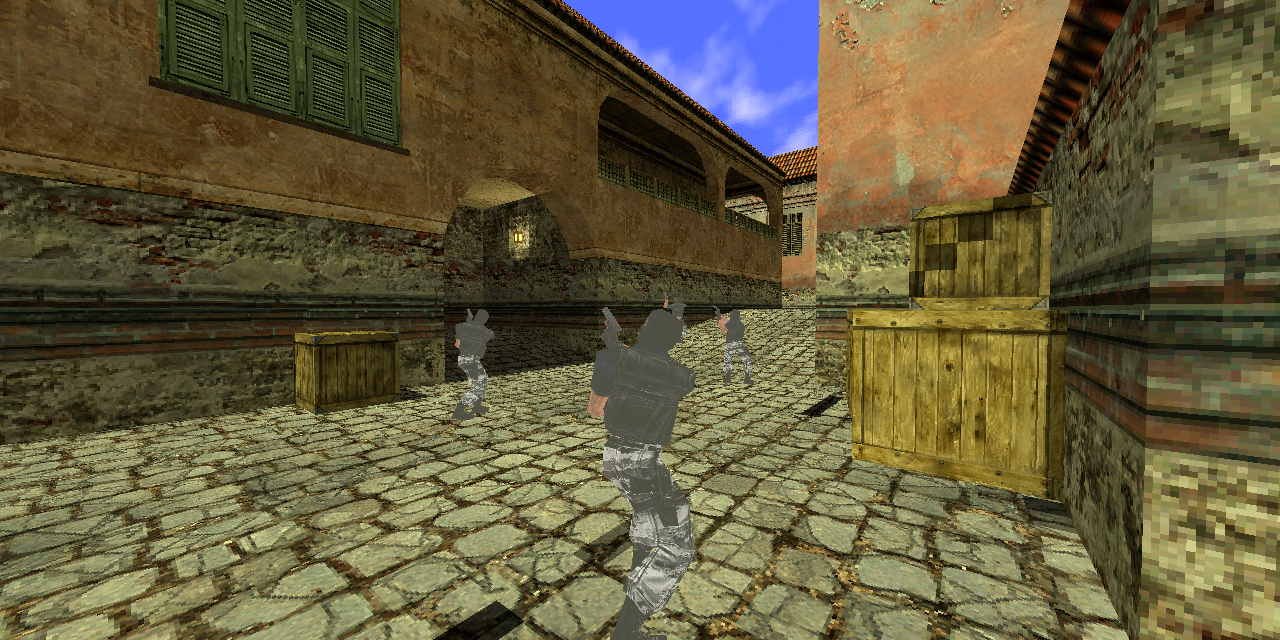
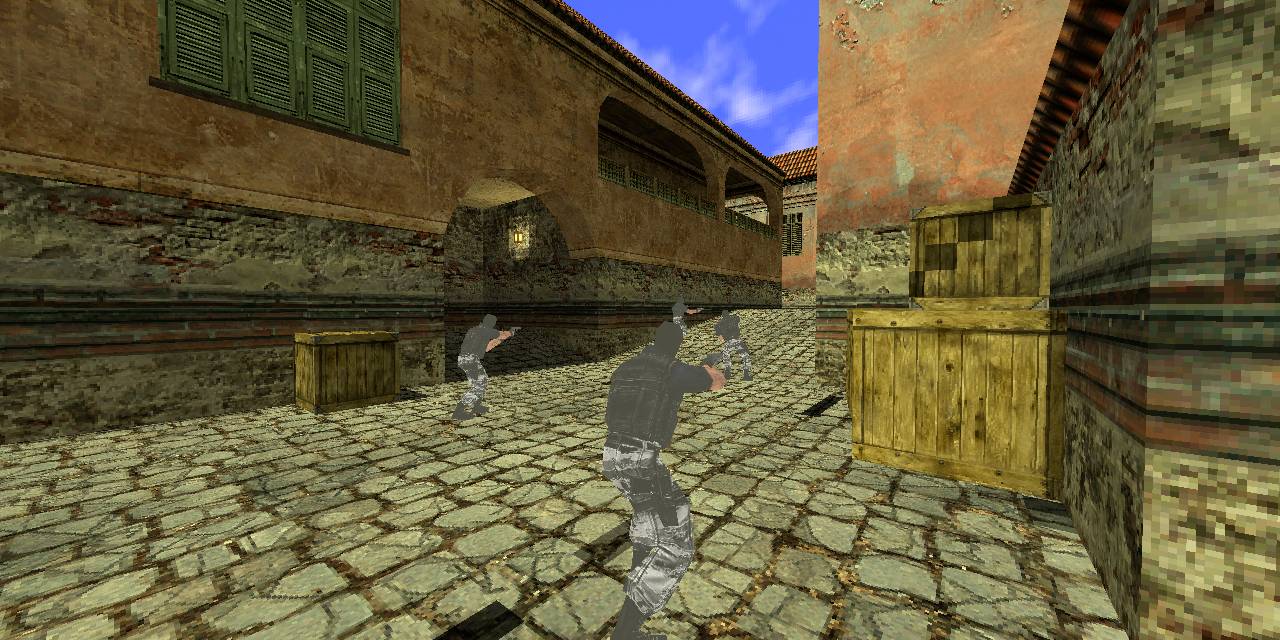
Aim the torso where the player was looking
Every player's aim sequence carries nine blends — `terror.mdl` has
sixteen of them, `ref_aim_rifle`, `ref_aim_ak47` and the rest, each with
`blendCount` 9 — and the blend axis is the pitch they are looking
through. The skeleton read blend 0 and nothing else, so every torso in
every frame was posed at one end of that axis. Rendering the same frame
at each end shows what that means: blend 0 is aiming straight up, hunched
and twisted away from the legs, which is exactly the figure in the
report. Blend 0.5 stands upright with the weapon level.

The animation lump holds `blendCount * boneCount` channel sets,
blend-major, so a bone's data for blend b starts at
`animOffset + (b * boneCount + i) * 12`. The skeleton now brackets the
requested position and interpolates, on top of the existing interpolation
between keyframes.

`blending[0]` was already being recorded and never used. Measured across
the demo it is centred on 128 of 255 — half of all samples sit within 32
of it — and it rises when a player looks down: mean 139 for pitches past
25 degrees down against 122 for the same past 25 up. That pins which end
of the axis is which and matches the renders. Sequences with one blend,
which is all the locomotion, are unaffected.

Two smaller things from the same screenshot. A player whose `modelindex`
has not arrived yet — anyone still unassigned at a round start — was
drawn as a coloured capsule; they now fall back to the model named in
[…]

Changed region(s): [[0.4375, 0.4688, 0.5938, 0.6562], [0.3438, 0.4688, 0.4062, 0.5625], [0.4688, 0.6875, 0.5312, 0.7188]]

diff --git a/src/mdl/model.ts b/src/mdl/model.ts
@@ -1,5 +1,13 @@
 import * as THREE from 'three'
-import { parseMdl, readAnimChannel, STUDIO_NF_ADDITIVE, STUDIO_NF_CHROME, STUDIO_NF_MASKED, type Mdl } from './parser.ts'
+import {
+  parseMdl,
+  readAnimChannel,
+  STUDIO_NF_ADDITIVE,
+  STUDIO_NF_CHROME,
+  STUDIO_NF_MASKED,
+  type Mdl,
+  type MdlSequence
+} from './parser.ts'
 
 /**
  * Turns a parsed studio model into a Three.js `SkinnedMesh` and evaluates its
@@ -254,8 +262,11 @@ export class StudioInstance {
    * @param frame         frame within that sequence
    * @param gaitSequence  lower-body sequence index (idle, walk, run)
    * @param gaitFrame     frame within the gait sequence
+   * @param blend         0..1 along the sequence's blend axis; for a player's
+   *                      aim sequences this is where they are looking, from
+   *                      fully down to fully up
    */
-  applyPose(sequence: number, frame: number, gaitSequence: number, gaitFrame: number): void {
+  applyPose(sequence: number, frame: number, gaitSequence: number, gaitFrame: number, blend = 0.5): void {
     const { mdl } = this.data
     const upper = mdl.sequences[sequence] ?? mdl.sequences[0]
     const lower = mdl.sequences[gaitSequence] ?? upper
@@ -264,7 +275,8 @@ export class StudioInstance {
       const useGait = !this.isTorso[i] && lower !== undefined && gaitSequence > 0
       const active = useGait ? lower : upper
       const activeFrame = useGait ? gaitFrame : frame
-      this.poseBone(i, active, activeFrame)
+      // Locomotion has one blend; only the aim sequences span an axis.
+      this.poseBone(i, active, activeFrame, useGait ? 0.5 : blend)
     }
   }
 
@@ -292,35 +304,65 @@ export class StudioInstance {
         this.bones[i].position.copy(shared.position)
         this.bones[i].quaternion.copy(shared.quaternion)
       } else {
-        this.poseBone(i, idle, 0)
+        this.poseBone(i, idle, 0, 0.5)
       }
     }
   }
 
-  private poseBone(boneIndex: number, sequence: { animOffset: number; frameCount: number } | undefined, frame: number): void {
+  private poseBone(
+    boneIndex: number,
+    sequence: MdlSequence | undefined,
+    frame: number,
+    blend: number
+  ): void {
     const bone = this.data.mdl.bones[boneIndex]
     const target = this.bones[boneIndex]
+    const bytes = this.data.mdl.bytes
+    const boneCount = this.data.mdl.bones.length
 
-    const values = [0, 0, 0, 0, 0, 0]
     // Studio clips run at 30-ish fps but the demo is played back at whatever
     // the display refreshes at, so land between keyframes and blend them.
     // Sampling only the floor makes every animation step visibly.
     const last = sequence ? sequence.frameCount - 1 : 0
     const whole = Math.min(Math.max(Math.floor(frame), 0), last)
     const nextWhole = Math.min(whole + 1, last)
-    const blend = Math.min(Math.max(frame - whole, 0), 1)
+    const frameBlend = Math.min(Math.max(frame - whole, 0), 1)
 
+    // Where along the blend axis this pose sits, and the two animations that
+    // bracket it. A player's aim sequences carry nine blends spanning the
+    // pitch they can look through, so reading only the first — as this used to
+    // — poses every torso at one extreme of that range no matter where they
+    // were actually aiming.
+    const blendCount = sequence ? Math.max(sequence.blendCount, 1) : 1
+    const axis = Math.min(Math.max(blend, 0), 1) * (blendCount - 1)
+    const lowBlend = Math.floor(axis)
+    const highBlend = Math.min(lowBlend + 1, blendCount - 1)
+    const axisBlend = axis - lowBlend
+
+    const channelAt = (animBase: number, channel: number): number | null => {
+      const a = readAnimChannel(bytes, animBase, boneIndex, channel, whole)
+      if (a === null) return null
+      if (nextWhole === whole) return a
+      const b = readAnimChannel(bytes, animBase, boneIndex, channel, nextWhole) ?? a
+      return a + (b - a) * frameBlend
+    }
+
+    const values = [0, 0, 0, 0, 0, 0]
     for (let channel = 0; channel < 6; channel++) {
       let value = bone.value[channel]
       if (sequence && sequence.frameCount > 0) {
-        const a = readAnimChannel(this.data.mdl.bytes, sequence.animOffset, boneIndex, channel, whole)
-        if (a !== null) {
-          const b = nextWhole === whole
-            ? a
-            : readAnimChannel(this.data.mdl.bytes, sequence.animOffset, boneIndex, channel, nextWhole) ?? a
-          // Rotations are stored as raw Euler steps; over one frame they never
-          // approach a wrap, so a plain lerp is safe and much cheaper than slerp.
-          value += (a + (b - a) * blend) * bone.scale[channel]
+        const lowBase = sequence.animOffset + lowBlend * boneCount * 12
+        const low = channelAt(lowBase, channel)
+        if (low !== null) {
+          let amount = low
+          if (highBlend !== lowBlend) {
+            const highBase = sequence.animOffset + highBlend * boneCount * 12
+            const high = channelAt(highBase, channel) ?? low
+            // Rotations are stored as raw Euler steps; across one blend step
+            // they never approach a wrap, so a plain lerp is safe.
+            amount = low + (high - low) * axisBlend
+          }
+          value += amount * bone.scale[channel]
         }
       }
       values[channel] = value

diff --git a/src/render/players.ts b/src/render/players.ts
@@ -3,6 +3,7 @@ import { buildStudioModel, StudioInstance, type StudioModelData } from '../mdl/m
 import {
   PLAYER_STRIDE,
   P_FRAME,
+  P_BLEND,
   P_GAIT,
   P_MODEL,
   P_PITCH,
@@ -58,6 +59,8 @@ export interface PlayerPose {
   sequence: number
   frame: number
   gaitSequence: number
+  /** Position along the aim sequence's blend axis, 0..1. */
+  blend: number
   modelIndex: number
   weaponModelIndex: number
 }
@@ -126,6 +129,14 @@ export function samplePlayer(player: ReplayPlayer, time: number, out: PlayerPose
     ? lerpWrapped(track.data[base + P_FRAME], hasNext ? track.data[next + P_FRAME] : track.data[base + P_FRAME], alpha, 256)
     : track.data[base + P_FRAME]
   out.gaitSequence = track.data[base + P_GAIT]
+  // `blending[0]` is where the player is looking along the aim sequence's
+  // pitch axis, 0..255 on the wire.
+  out.blend = lerpWrapped(
+    track.data[base + P_BLEND],
+    hasNext ? track.data[next + P_BLEND] : track.data[base + P_BLEND],
+    alpha,
+    256
+  ) / 255
   out.modelIndex = track.data[base + P_MODEL]
   out.weaponModelIndex = track.data[base + P_WEAPON_MODEL]
   out.present = true
@@ -153,6 +164,7 @@ export function createPose(): PlayerPose {
     sequence: 0,
     frame: 0,
     gaitSequence: 0,
+    blend: 0.5,
     modelIndex: 0,
     weaponModelIndex: 0
   }
@@ -220,14 +232,29 @@ export class PlayerActor {
     this.label.position.set(0, TAG_HEIGHT, 0)
     this.root.add(this.label)
 
-    // Shown until the real model arrives, and if it never does.
+    // Shown until a model arrives, and if none ever does. Centred on the
+    // origin, not raised: a player's origin is the middle of their hull, and
+    // the studio model straddles it too — measured at -36.8..26.4 in its own
+    // frame. Sitting it 36 higher left a capsule floating a body above the
+    // ground.
     this.fallback = new THREE.Mesh(
-      new THREE.CapsuleGeometry(16, 40, 4, 8),
+      new THREE.CapsuleGeometry(14, 34, 4, 8),
       new THREE.MeshLambertMaterial({ color: TEAM_COLORS[player.team] ?? TEAM_COLORS[0] })
     )
-    this.fallback.position.y = 36
     this.root.add(this.fallback)
     this.root.visible = false
+  }
+
+  /**
+   * The model named in the player's connect-time userinfo.
+   *
+   * Used when the entity's `modelindex` has not arrived yet, which happens for
+   * anyone still unassigned at the start of a round. Without it they spend
+   * that time as a coloured capsule.
+   */
+  private userinfoModel(): string | null {
+    const name = this.player.model
+    return name ? `models/player/${name}/${name}.mdl` : null
   }
 
   /** Team at `time`, preferring the model actually worn in that frame. */
@@ -259,7 +286,7 @@ export class PlayerActor {
     // and running read correctly.
     this.gaitPhase += delta * (pose.speed / 100) * 12
     const studio = this.studioFrames(instance, pose)
-    instance.applyPose(studio.sequence, studio.frame, studio.gaitSequence, studio.gaitFrame)
+    instance.applyPose(studio.sequence, studio.frame, studio.gaitSequence, studio.gaitFrame, pose.blend)
 
     // The gun must be posed after the player, since it rides those bones.
     this.ensureWeapon(pose.weaponModelIndex)
@@ -317,7 +344,7 @@ export class PlayerActor {
   }
 
   private ensureModel(modelIndex: number): void {
-    const path = this.replay.models.get(modelIndex)
+    const path = this.replay.models.get(modelIndex) ?? this.userinfoModel()
     if (!path || path === this.currentModelPath) return
     this.currentModelPath = path
 

diff --git a/src/mdl/parser.ts b/src/mdl/parser.ts
@@ -19,9 +19,16 @@ export interface MdlSequence {
   fps: number
   flags: number
   frameCount: number
-  /** Per-bone RLE animation channels for blend 0. */
+  /**
+   * Per-bone RLE animation channels. The lump holds `blendCount * boneCount`
+   * of them, blend-major, so blend `b` for bone `i` starts at
+   * `animOffset + (b * boneCount + i) * 12`.
+   */
   animOffset: number
   blendCount: number
+  /** Range the blend axis spans; for player aim sequences, degrees of pitch. */
+  blendStart: number
+  blendEnd: number
   /** Straight-line motion the animation itself carries, in model space. */
   linearMovement: [number, number, number]
 }
@@ -141,7 +148,15 @@ export function parseMdl(bytes: Uint8Array): Mdl {
     s.skip(24) // bounding box
     const blendCount = s.i32()
     const animOffset = s.i32()
-    sequences.push({ label, fps, flags, frameCount, animOffset, blendCount, linearMovement })
+    s.skip(8) // blend types
+    // The range of the blend axis, in whatever unit `blendtype` names — for a
+    // player's aim sequences that is the pitch the nine blends span.
+    const blendStart = s.f32()
+    s.skip(4) // blendstart[1]
+    const blendEnd = s.f32()
+    sequences.push({
+      label, fps, flags, frameCount, animOffset, blendCount, blendStart, blendEnd, linearMovement
+    })
   }
 
   // --- body parts, sub-models and meshes ---
